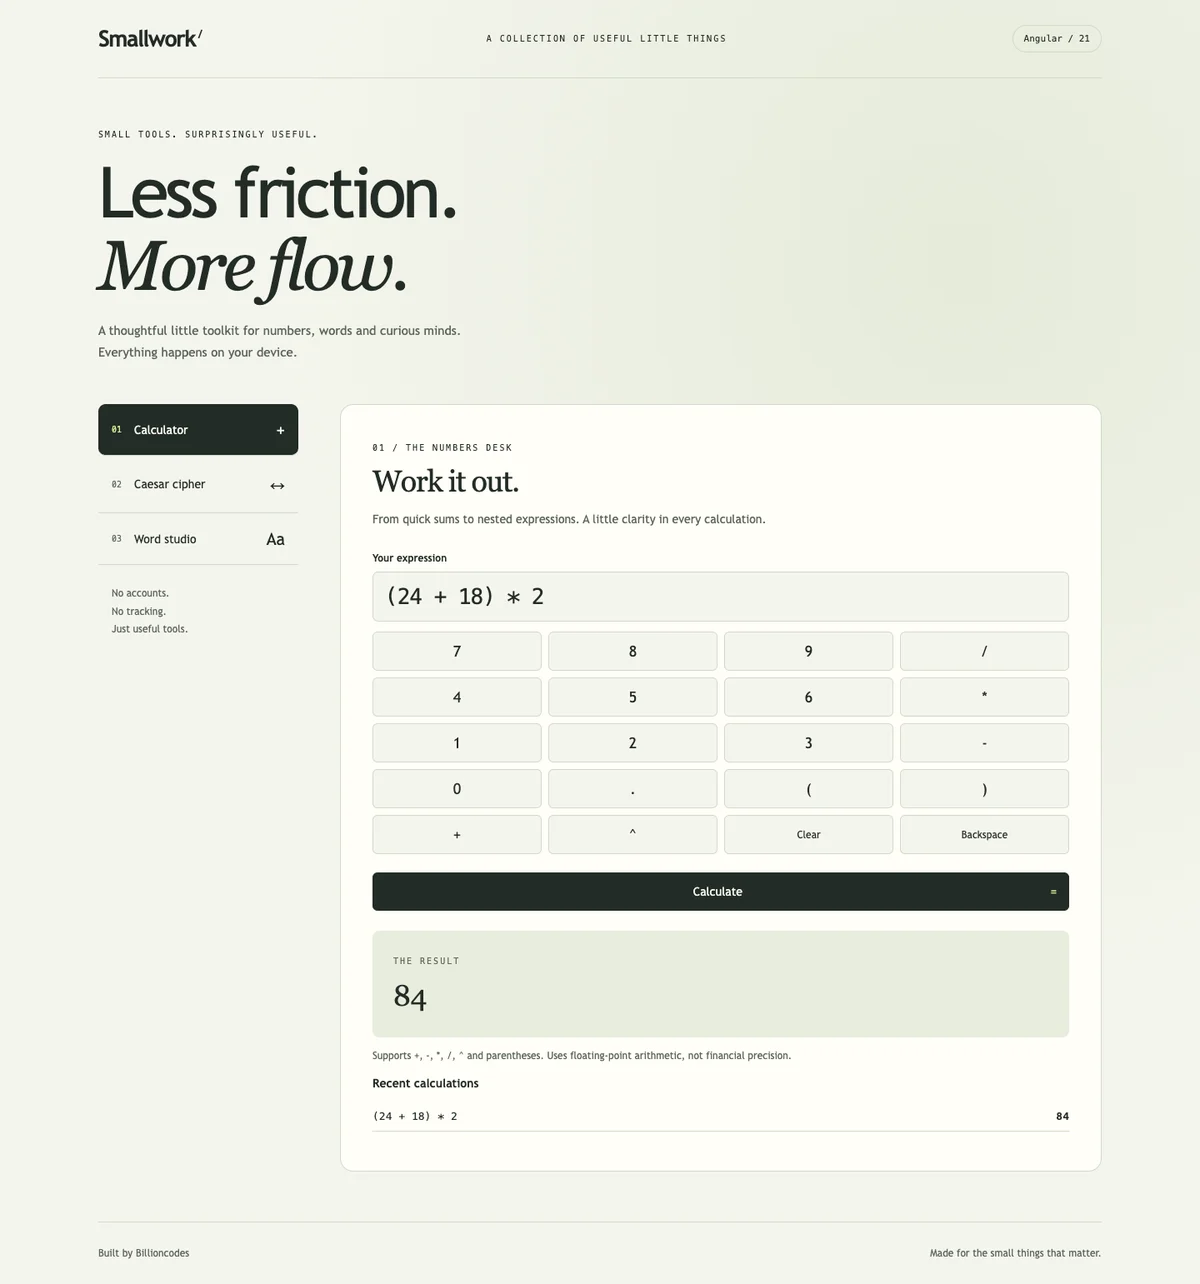
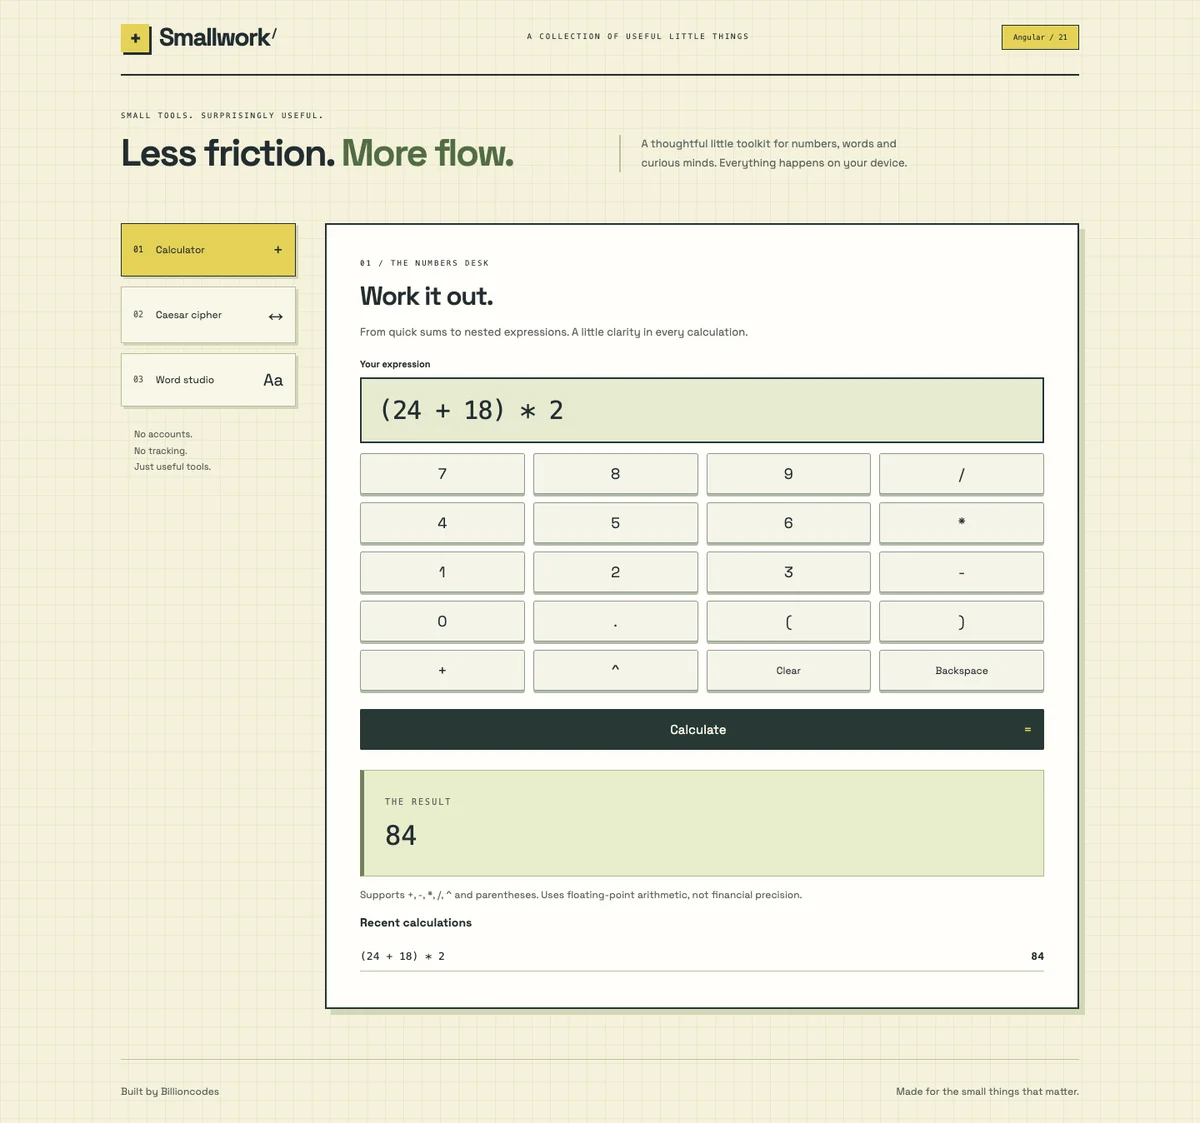
Give the workspace a distinct task-focused visual identity

diff --git a/src/styles.css b/src/styles.css
@@ -370,3 +370,9 @@ footer {
     font-size: 16px;
   }
 }
+
+/* Smallwork: a graph-paper instrument bench. */
+@font-face{font-family:Space;src:url('./fonts/space.woff2');font-weight:300 700;font-display:swap}
+:root{--paper:#f5f2db;--ink:#232d31;--muted:#59635e;--line:#bdbf9e;--lime:#f1d753;--tint:#e6e7c2}
+body{font-family:Space,sans-serif;background-color:#f5f2db;background-image:linear-gradient(#4a5a3910 1px,transparent 1px),linear-gradient(90deg,#4a5a3910 1px,transparent 1px);background-size:22px 22px}.shell{max-width:1240px;padding:0 45px}header{border-bottom:2px solid var(--ink);padding:25px 0}.brand{font-size:30px;letter-spacing:-1.7px}.brand:before{content:"+";display:inline-grid;place-items:center;width:34px;height:34px;background:#e5d256;margin-right:12px;box-shadow:3px 3px 0 #232d31;font-size:25px}.badge{border-radius:0;font-size:9px;background:#e5d256;border:1px solid #232d31}.edition{font-size:9px}.intro{padding:32px 0 25px;display:grid;grid-template-columns:1fr 1fr;gap:0 45px}.intro>.eyebrow{grid-column:1/-1;font-size:9px;margin-bottom:0}.intro h1{font:600 45px/1.03 Space;letter-spacing:-2px;margin:15px 0}.intro h1 br{display:none}.intro h1 em{font:inherit;color:#526d45}.intro>p:last-child{align-self:center;font-size:13px;max-width:350px;border-left:2px solid #bfc29f;padding-left:25px}.workbench{grid-template-columns:210px minmax(0,1fr);gap:35px;padding-top:20px}.tool{background:#fffefa;border:2px solid #273438;border-radius:0;padding:30px 40px;box-shadow:7px 7px 0 #d2d6b5}.tool .eyebrow{font-size:9px}.tool h2{font:600 31px Space;letter-spacing:-1.3px}.tool .description{font-size:13px;margin-bottom:20px}nav a{border:1px solid #b9bd9e;border-radius:0;margin-bottom:12px;background:#f9f7e8;padding:18px 14px;font-size:12px;box-shadow:3px 3px 0 #d3d5b9}nav a.active{border-radius:0;background:#e5d256;color:#232d31;border-color:#232d31}nav .active span{color:#232d31}nav p{font-size:11px}#expression{border:2px solid #263638;background:#e6ebd0;border-radius:0;font-size:30px;padding:20px}.keypad{gap:10px}.key{border:1px solid #8e998e;border-radius:3px;box-shadow:0 3px 0 #b1bbaa;background:#f4f4e8}.primary{background:#283936;color:#fffbe8;border-radius:2px;font-size:15px}.result{background:#e8edcc;border-radius:0;border:1px solid #abb78f;border-left:5px solid #71835b}.result output{font-family:monospace;font-size:32px}input,textarea,select,button{font-family:Space}label{font-size:11px}.formats .selected{background:#273a36}.formatted{background:#f0f1db}
+@media(max-width:850px){.shell{padding:0 22px}.intro{grid-template-columns:1fr;gap:0}.intro h1{font-size:38px;max-width:330px}.intro>p:last-child{border:0;padding:0}.workbench{grid-template-columns:1fr;gap:20px}.tool{padding:25px;box-shadow:4px 4px 0 #d2d6b5}nav{gap:10px}nav a{margin:0;padding:14px 10px;font-size:11px;box-shadow:none}.tool h2{font-size:27px}.keypad{gap:9px}.badge{font-size:8px}.result output{font-size:28px}}

diff --git a/src/main.ts b/src/main.ts
@@ -20,7 +20,7 @@ import {
       <main>
         <section class="intro">
           <p class="eyebrow">SMALL TOOLS. SURPRISINGLY USEFUL.</p>
-          <h1>Less friction.<br /><em>More flow.</em></h1>
+          <h1>Less friction. <em>More flow.</em></h1>
           <p>
             A thoughtful little toolkit for numbers, words and curious minds.
             Everything happens on your device.
